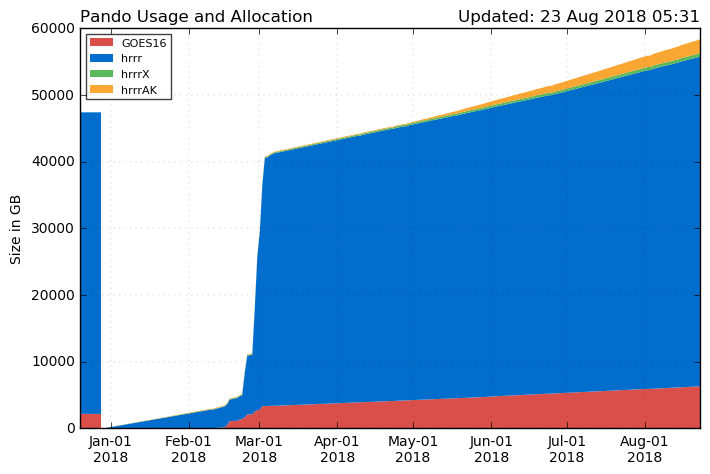
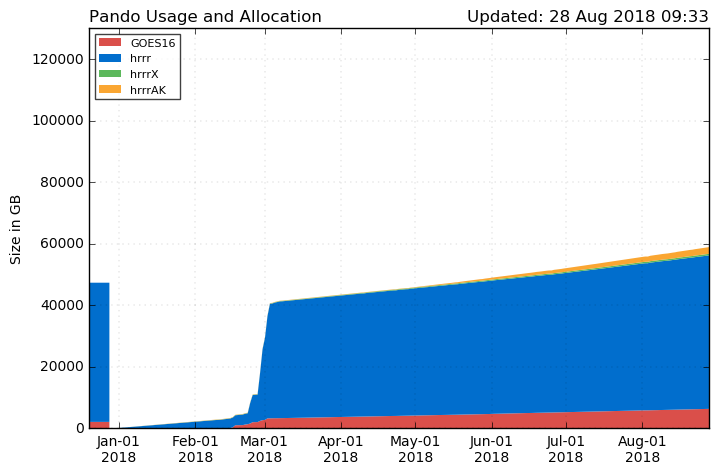
updates: remove files from disk to reduce storage, risk files on Pando

diff --git a/hrrr_fires.html b/hrrr_fires.html
@@ -62,7 +62,22 @@ This page is created dynamically in the scirpt /oper/HRRR_fires/manager.py
         </ul>
         -->
         </div>
-        </div></td><td>Utah</td> <td>10,250.0</td><td>2018-07-21 00:00:00</td></tr><tr><td>
+        </div></td><td>Utah</td> <td>12,246.0</td><td>2018-07-21 00:00:00</td></tr><tr><td>
+        <div class="btn-group" role="group" aria-label="..." style="padding-bottom:3px">
+        <a href="http://home.chpc.utah.edu/~u0553130/Brian_Blaylock/cgi-bin/photo_viewer_fire.cgi?FIRE=BRITANIA_MOUNTAIN" class="btn btn-warning" style="width:175px"><b><i class="fab fa-gripfire"></i> BRITANIA MOUNTAIN</b></a>  <div class="btn-group" role="group">
+        <!--
+        <a class="btn btn-warning dropdown-toggle" data-toggle="dropdown" aria-haspopup="true" aria-expanded="false">
+        <i class="far fa-clock"></i>
+        <span class="caret"></span>
+        </a>
+        <ul class="dropdown-menu">
+        <li>Other Data/Figures:</li>
+        <li><a href="http://home.chpc.utah.edu/~u0553130/PhD/HRRR_fires/BRITANIA_MOUNTAIN">More Plots</a></li>
+        <li><a href="http://home.chpc.utah.edu/~u0553130/Brian_Blaylock/cgi-bin/hrrr_fires_alert.cgi?fire=BRITANIA MOUNTAIN">Past Wind Events</a></li>
+        </ul>
+        -->
+        </div>
+        </div></td><td>Wyoming</td> <td>13,300.0</td><td>2018-08-26 00:00:00</td></tr><tr><td>
         <div class="btn-group" role="group" aria-label="..." style="padding-bottom:3px">
         <a href="http://home.chpc.utah.edu/~u0553130/Brian_Blaylock/cgi-bin/photo_viewer_fire.cgi?FIRE=BULL_DRAW" class="btn btn-warning" style="width:175px"><b><i class="fab fa-gripfire"></i> BULL DRAW</b></a>  <div class="btn-group" role="group">
         <!--
@@ -77,22 +92,7 @@ This page is created dynamically in the scirpt /oper/HRRR_fires/manager.py
         </ul>
         -->
         </div>
-        </div></td><td>Colorado</td> <td>30,180.0</td><td>2018-07-29 00:00:00</td></tr><tr><td>
-        <div class="btn-group" role="group" aria-label="..." style="padding-bottom:3px">
-        <a href="http://home.chpc.utah.edu/~u0553130/Brian_Blaylock/cgi-bin/photo_viewer_fire.cgi?FIRE=COLUMBUS" class="btn btn-warning" style="width:175px"><b><i class="fab fa-gripfire"></i> COLUMBUS</b></a>  <div class="btn-group" role="group">
-        <!--
-        <a class="btn btn-warning dropdown-toggle" data-toggle="dropdown" aria-haspopup="true" aria-expanded="false">
-        <i class="far fa-clock"></i>
-        <span class="caret"></span>
-        </a>
-        <ul class="dropdown-menu">
-        <li>Other Data/Figures:</li>
-        <li><a href="http://home.chpc.utah.edu/~u0553130/PhD/HRRR_fires/COLUMBUS">More Plots</a></li>
-        <li><a href="http://home.chpc.utah.edu/~u0553130/Brian_Blaylock/cgi-bin/hrrr_fires_alert.cgi?fire=COLUMBUS">Past Wind Events</a></li>
-        </ul>
-        -->
-        </div>
-        </div></td><td>Oregon</td> <td>10,518.0</td><td>2018-07-15 00:00:00</td></tr><tr><td>
+        </div></td><td>Colorado</td> <td>30,208.0</td><td>2018-07-29 00:00:00</td></tr><tr><td>
         <div class="btn-group" role="group" aria-label="..." style="padding-bottom:3px">
         <a href="http://home.chpc.utah.edu/~u0553130/Brian_Blaylock/cgi-bin/photo_viewer_fire.cgi?FIRE=COUGAR_CREEK" class="btn btn-warning" style="width:175px"><b><i class="fab fa-gripfire"></i> COUGAR CREEK</b></a>  <div class="btn-group" role="group">
         <!--
@@ -107,7 +107,7 @@ This page is created dynamically in the scirpt /oper/HRRR_fires/manager.py
         </ul>
         -->
         </div>
-        </div></td><td>Washington</td> <td>39,208.0</td><td>2018-07-28 00:00:00</td></tr><tr><td>
+        </div></td><td>Washington</td> <td>41,324.0</td><td>2018-07-28 00:00:00</td></tr><tr><td>
         <div class="btn-group" role="group" aria-label="..." style="padding-bottom:3px">
         <a href="http://home.chpc.utah.edu/~u0553130/Brian_Blaylock/cgi-bin/photo_viewer_fire.cgi?FIRE=CRESCENT_MOUNTAIN" class="btn btn-warning" style="width:175px"><b><i class="fab fa-gripfire"></i> CRESCENT MOUNTAIN</b></a>  <div class="btn-group" role="group">
         <!--
@@ -122,7 +122,37 @@ This page is created dynamically in the scirpt /oper/HRRR_fires/manager.py
         </ul>
         -->
         </div>
-        </div></td><td>Washington</td> <td>32,855.0</td><td>2018-07-29 00:00:00</td></tr><tr><td>
+        </div></td><td>Washington</td> <td>42,942.0</td><td>2018-07-29 00:00:00</td></tr><tr><td>
+        <div class="btn-group" role="group" aria-label="..." style="padding-bottom:3px">
+        <a href="http://home.chpc.utah.edu/~u0553130/Brian_Blaylock/cgi-bin/photo_viewer_fire.cgi?FIRE=GOLDSTONE" class="btn btn-warning" style="width:175px"><b><i class="fab fa-gripfire"></i> GOLDSTONE</b></a>  <div class="btn-group" role="group">
+        <!--
+        <a class="btn btn-warning dropdown-toggle" data-toggle="dropdown" aria-haspopup="true" aria-expanded="false">
+        <i class="far fa-clock"></i>
+        <span class="caret"></span>
+        </a>
+        <ul class="dropdown-menu">
+        <li>Other Data/Figures:</li>
+        <li><a href="http://home.chpc.utah.edu/~u0553130/PhD/HRRR_fires/GOLDSTONE">More Plots</a></li>
+        <li><a href="http://home.chpc.utah.edu/~u0553130/Brian_Blaylock/cgi-bin/hrrr_fires_alert.cgi?fire=GOLDSTONE">Past Wind Events</a></li>
+        </ul>
+        -->
+        </div>
+        </div></td><td>Montana</td> <td>9,337.0</td><td>2018-08-02 00:00:00</td></tr><tr><td>
+        <div class="btn-group" role="group" aria-label="..." style="padding-bottom:3px">
+        <a href="http://home.chpc.utah.edu/~u0553130/Brian_Blaylock/cgi-bin/photo_viewer_fire.cgi?FIRE=GOSHUTE_CAVE" class="btn btn-warning" style="width:175px"><b><i class="fab fa-gripfire"></i> GOSHUTE CAVE</b></a>  <div class="btn-group" role="group">
+        <!--
+        <a class="btn btn-warning dropdown-toggle" data-toggle="dropdown" aria-haspopup="true" aria-expanded="false">
+        <i class="far fa-clock"></i>
+        <span class="caret"></span>
+        </a>
+        <ul class="dropdown-menu">
+        <li>Other Data/Figures:</li>
+        <li><a href="http://home.chpc.utah.edu/~u0553130/PhD/HRRR_fires/GOSHUTE_CAVE">More Plots</a></li>
+        <li><a href="http://home.chpc.utah.edu/~u0553130/Brian_Blaylock/cgi-bin/hrrr_fires_alert.cgi?fire=GOSHUTE CAVE">Past Wind Events</a></li>
+        </ul>
+        -->
+        </div>
+        </div></td><td>Nevada</td> <td>17,000.0</td><td>2018-08-13 00:00:00</td></tr><tr><td>
         <div class="btn-group" role="group" aria-label="..." style="padding-bottom:3px">
         <a href="http://home.chpc.utah.edu/~u0553130/Brian_Blaylock/cgi-bin/photo_viewer_fire.cgi?FIRE=HIRZ" class="btn btn-warning" style="width:175px"><b><i class="fab fa-gripfire"></i> HIRZ</b></a>  <div class="btn-group" role="group">
         <!--
@@ -137,7 +167,7 @@ This page is created dynamically in the scirpt /oper/HRRR_fires/manager.py
         </ul>
         -->
         </div>
-        </div></td><td>California</td> <td>19,100.0</td><td>2018-08-09 00:00:00</td></tr><tr><td>
+        </div></td><td>California</td> <td>30,606.0</td><td>2018-08-09 00:00:00</td></tr><tr><td>
         <div class="btn-group" role="group" aria-label="..." style="padding-bottom:3px">
         <a href="http://home.chpc.utah.edu/~u0553130/Brian_Blaylock/cgi-bin/photo_viewer_fire.cgi?FIRE=HOWE_RIDGE" class="btn btn-warning" style="width:175px"><b><i class="fab fa-gripfire"></i> HOWE RIDGE</b></a>  <div class="btn-group" role="group">
         <!--
@@ -152,7 +182,7 @@ This page is created dynamically in the scirpt /oper/HRRR_fires/manager.py
         </ul>
         -->
         </div>
-        </div></td><td>Montana</td> <td>10,323.0</td><td>2018-08-11 00:00:00</td></tr><tr><td>
+        </div></td><td>Montana</td> <td>12,420.0</td><td>2018-08-11 00:00:00</td></tr><tr><td>
         <div class="btn-group" role="group" aria-label="..." style="padding-bottom:3px">
         <a href="http://home.chpc.utah.edu/~u0553130/Brian_Blaylock/cgi-bin/photo_viewer_fire.cgi?FIRE=KLONDIKE" class="btn btn-warning" style="width:175px"><b><i class="fab fa-gripfire"></i> KLONDIKE</b></a>  <div class="btn-group" role="group">
         <!--
@@ -167,7 +197,7 @@ This page is created dynamically in the scirpt /oper/HRRR_fires/manager.py
         </ul>
         -->
         </div>
-        </div></td><td>Oregon</td> <td>79,501.0</td><td>2018-07-15 00:00:00</td></tr><tr><td>
+        </div></td><td>Oregon</td> <td>93,538.0</td><td>2018-07-15 00:00:00</td></tr><tr><td>
         <div class="btn-group" role="group" aria-label="..." style="padding-bottom:3px">
         <a href="http://home.chpc.utah.edu/~u0553130/Brian_Blaylock/cgi-bin/photo_viewer_fire.cgi?FIRE=MCLEOD" class="btn btn-warning" style="width:175px"><b><i class="fab fa-gripfire"></i> MCLEOD</b></a>  <div class="btn-group" role="group">
         <!--
@@ -182,22 +212,7 @@ This page is created dynamically in the scirpt /oper/HRRR_fires/manager.py
         </ul>
         -->
         </div>
-        </div></td><td>Washington</td> <td>17,372.0</td><td>2018-08-11 00:00:00</td></tr><tr><td>
-        <div class="btn-group" role="group" aria-label="..." style="padding-bottom:3px">
-        <a href="http://home.chpc.utah.edu/~u0553130/Brian_Blaylock/cgi-bin/photo_viewer_fire.cgi?FIRE=MILES" class="btn btn-warning" style="width:175px"><b><i class="fab fa-gripfire"></i> MILES</b></a>  <div class="btn-group" role="group">
-        <!--
-        <a class="btn btn-warning dropdown-toggle" data-toggle="dropdown" aria-haspopup="true" aria-expanded="false">
-        <i class="far fa-clock"></i>
-        <span class="caret"></span>
-        </a>
-        <ul class="dropdown-menu">
-        <li>Other Data/Figures:</li>
-        <li><a href="http://home.chpc.utah.edu/~u0553130/PhD/HRRR_fires/MILES">More Plots</a></li>
-        <li><a href="http://home.chpc.utah.edu/~u0553130/Brian_Blaylock/cgi-bin/hrrr_fires_alert.cgi?fire=MILES">Past Wind Events</a></li>
-        </ul>
-        -->
-        </div>
-        </div></td><td>Oregon</td> <td>35,455.0</td><td>2018-07-16 00:00:00</td></tr><tr><td>
+        </div></td><td>Washington</td> <td>21,659.0</td><td>2018-08-11 00:00:00</td></tr><tr><td>
         <div class="btn-group" role="group" aria-label="..." style="padding-bottom:3px">
         <a href="http://home.chpc.utah.edu/~u0553130/Brian_Blaylock/cgi-bin/photo_viewer_fire.cgi?FIRE=RABBIT_FOOT_" class="btn btn-warning" style="width:175px"><b><i class="fab fa-gripfire"></i> RABBIT FOOT </b></a>  <div class="btn-group" role="group">
         <!--
@@ -212,7 +227,22 @@ This page is created dynamically in the scirpt /oper/HRRR_fires/manager.py
         </ul>
         -->
         </div>
-        </div></td><td>Idaho</td> <td>34,518.0</td><td>2018-08-02 00:00:00</td></tr><tr><td>
+        </div></td><td>Idaho</td> <td>35,271.0</td><td>2018-08-02 00:00:00</td></tr><tr><td>
+        <div class="btn-group" role="group" aria-label="..." style="padding-bottom:3px">
+        <a href="http://home.chpc.utah.edu/~u0553130/Brian_Blaylock/cgi-bin/photo_viewer_fire.cgi?FIRE=RATTLESNAKE_CREEK" class="btn btn-warning" style="width:175px"><b><i class="fab fa-gripfire"></i> RATTLESNAKE CREEK</b></a>  <div class="btn-group" role="group">
+        <!--
+        <a class="btn btn-warning dropdown-toggle" data-toggle="dropdown" aria-haspopup="true" aria-expanded="false">
+        <i class="far fa-clock"></i>
+        <span class="caret"></span>
+        </a>
+        <ul class="dropdown-menu">
+        <li>Other Data/Figures:</li>
+        <li><a href="http://home.chpc.utah.edu/~u0553130/PhD/HRRR_fires/RATTLESNAKE_CREEK">More Plots</a></li>
+        <li><a href="http://home.chpc.utah.edu/~u0553130/Brian_Blaylock/cgi-bin/hrrr_fires_alert.cgi?fire=RATTLESNAKE CREEK">Past Wind Events</a></li>
+        </ul>
+        -->
+        </div>
+        </div></td><td>Idaho</td> <td>8,193.0</td><td>2018-07-23 00:00:00</td></tr><tr><td>
         <div class="btn-group" role="group" aria-label="..." style="padding-bottom:3px">
         <a href="http://home.chpc.utah.edu/~u0553130/Brian_Blaylock/cgi-bin/photo_viewer_fire.cgi?FIRE=SOUTH_SUGARLOAF" class="btn btn-warning" style="width:175px"><b><i class="fab fa-gripfire"></i> SOUTH SUGARLOAF</b></a>  <div class="btn-group" role="group">
         <!--
@@ -227,37 +257,7 @@ This page is created dynamically in the scirpt /oper/HRRR_fires/manager.py
         </ul>
         -->
         </div>
-        </div></td><td>Nevada</td> <td>81,125.0</td><td>2018-08-17 00:00:00</td></tr><tr><td>
-        <div class="btn-group" role="group" aria-label="..." style="padding-bottom:3px">
-        <a href="http://home.chpc.utah.edu/~u0553130/Brian_Blaylock/cgi-bin/photo_viewer_fire.cgi?FIRE=STONE" class="btn btn-warning" style="width:175px"><b><i class="fab fa-gripfire"></i> STONE</b></a>  <div class="btn-group" role="group">
-        <!--
-        <a class="btn btn-warning dropdown-toggle" data-toggle="dropdown" aria-haspopup="true" aria-expanded="false">
-        <i class="far fa-clock"></i>
-        <span class="caret"></span>
-        </a>
-        <ul class="dropdown-menu">
-        <li>Other Data/Figures:</li>
-        <li><a href="http://home.chpc.utah.edu/~u0553130/PhD/HRRR_fires/STONE">More Plots</a></li>
-        <li><a href="http://home.chpc.utah.edu/~u0553130/Brian_Blaylock/cgi-bin/hrrr_fires_alert.cgi?fire=STONE">Past Wind Events</a></li>
-        </ul>
-        -->
-        </div>
-        </div></td><td>California</td> <td>30,570.0</td><td>2018-08-15 00:00:00</td></tr><tr><td>
-        <div class="btn-group" role="group" aria-label="..." style="padding-bottom:3px">
-        <a href="http://home.chpc.utah.edu/~u0553130/Brian_Blaylock/cgi-bin/photo_viewer_fire.cgi?FIRE=WATSON_CREEK" class="btn btn-warning" style="width:175px"><b><i class="fab fa-gripfire"></i> WATSON CREEK</b></a>  <div class="btn-group" role="group">
-        <!--
-        <a class="btn btn-warning dropdown-toggle" data-toggle="dropdown" aria-haspopup="true" aria-expanded="false">
-        <i class="far fa-clock"></i>
-        <span class="caret"></span>
-        </a>
-        <ul class="dropdown-menu">
-        <li>Other Data/Figures:</li>
-        <li><a href="http://home.chpc.utah.edu/~u0553130/PhD/HRRR_fires/WATSON_CREEK">More Plots</a></li>
-        <li><a href="http://home.chpc.utah.edu/~u0553130/Brian_Blaylock/cgi-bin/hrrr_fires_alert.cgi?fire=WATSON CREEK">Past Wind Events</a></li>
-        </ul>
-        -->
-        </div>
-        </div></td><td>Oregon</td> <td>35,287.0</td><td>2018-08-15 00:00:00</td></tr>
+        </div></td><td>Nevada</td> <td>232,859.0</td><td>2018-08-17 00:00:00</td></tr>
 </table>
 </div>
   <div class="col-md-6">
@@ -275,7 +275,7 @@ This page is created dynamically in the scirpt /oper/HRRR_fires/manager.py
     <p><a class='btn btn-default' style='width:100%' href="https://rmgsc.cr.usgs.gov/outgoing/GeoMAC/ActiveFirePerimeters.kml" target="_blank">Active Fire KMZ USGS <i class="fa fa-external-link-alt"></i></a>
     <p><a class='btn btn-default' style='width:100%' href="https://earthdata.nasa.gov/earth-observation-data/near-real-time/firms/active-fire-data" target="_blank">Active Fire KMZ EarthData <i class="fa fa-external-link-alt"></i></a>
     <p><a class='btn btn-success' style='width:100%' href="https://rmgsc.cr.usgs.gov/outgoing/GeoMAC/current_year_fire_data/current_year_all_states/" target="_blank">Active Fire Perimeter ShapeFile <i class="fa fa-external-link-alt"></i></a>
-    <p><a class='btn btn-success' style='width:100%' href="https://fsapps.nwcg.gov/afm/data/lg_fire/lg_fire_info_2018-08-23.txt" target="_blank">Active Fire Text <i class="fa fa-external-link-alt"></i></a>
+    <p><a class='btn btn-success' style='width:100%' href="https://fsapps.nwcg.gov/afm/data/lg_fire/lg_fire_info_2018-08-28.txt" target="_blank">Active Fire Text <i class="fa fa-external-link-alt"></i></a>
     </div>
 </center>
 </div>

diff --git a/Pando_archive/index.html b/Pando_archive/index.html
@@ -37,18 +37,18 @@
         </div>
   <br>
   <script src='./js/pando_status.js'></script>
-    <center><font size=12> 58.5 TB out of 60 TB</font>
+    <center><font size=12> 59.1 TB out of 130 TB</font>
     <div class="progress" style="max-width:700px;height:35px">
-            <div class="progress-bar progress-bar-danger" role="progressbar" style="width:11%">
+            <div class="progress-bar progress-bar-danger" role="progressbar" style="width:5%">
               <font size=4></font>
             </div>
-            <div class="progress-bar progress-bar-primary" role="progressbar" style="width:82%">
+            <div class="progress-bar progress-bar-primary" role="progressbar" style="width:38%">
               <font size=4></font>
             </div>
-            <div class="progress-bar progress-bar-success" role="progressbar" style="width:1%">
+            <div class="progress-bar progress-bar-success" role="progressbar" style="width:0%">
               <font size=4></font>
             </div>
-            <div class="progress-bar progress-bar-warning" role="progressbar" style="width:3%">
+            <div class="progress-bar progress-bar-warning" role="progressbar" style="width:2%">
               <font size=4></font>
             </div>
           </div>
@@ -64,9 +64,9 @@
         <th style='text-align:center'>Estimated Full Date</th>
       </tr>
       <tr>
-        <td>118.19 GB</td>
-        <td>13</td>
-        <td>05 September 2018</td>
+        <td>130.95 GB</td>
+        <td>541</td>
+        <td>20 February 2020</td>
       </tr>
     </table>
     <table class="table table-bordered" style='text-align:center;max-width:700px'>
@@ -80,30 +80,30 @@
       <tr>
         <th>sfc</th>
         <td>--</td>
-        <td>22.65</td>
-        <td>1.02</td>
-        <td>7.48</td>
+        <td>28.27</td>
+        <td>0.47</td>
+        <td>9.09</td>
       </tr>
       <tr>
         <th>prs</th>
         <td>--</td>
-        <td>3.15</td>
+        <td>4.24</td>
         <td>0.00</td>
         <td>0.00</td>
       </tr>
       <tr>
         <th>nat</th>
         <td>--</td>
-        <td>4.95</td>
+        <td>6.79</td>
         <td>0.00</td>
         <td>0.00</td>
       </tr>
       <tr>
         <th>Total</th>
-        <th>18.4 GB</th>
-        <th>30.75 GB</th>
-        <th>1.02 GB</th>
-        <th>7.48 GB</th>
+        <th>21.8 GB</th>
+        <th>39.30 GB</th>
+        <th>0.47 GB</th>
+        <th>9.09 GB</th>
       </tr>
     </table>
 

diff --git a/home.html b/home.html
@@ -168,7 +168,7 @@ in November 2012.
               </div>
               <div class="media-body">
                 <b>Microsoft</b><br>
-                <h4>Windows, Office 365</h4>
+                <h4>Windows, Office 365, VSCode</h4>
               </div>
           </div>
           <div class="media">
@@ -177,7 +177,7 @@ in November 2012.
               </div>
               <div class="media-body">
                 <b>Communication</b><br>
-                <h4>Speaking, writing, teaching, documentation, Slack</h4>
+                <h4>Speaking, writing, teaching, documentation, Slack, types 80+ words per minute</h4>
               </div>
           </div>
         </div>

diff --git a/Pando_archive/daily_usage.py b/Pando_archive/daily_usage.py
@@ -41,7 +41,7 @@ mpl.rcParams['savefig.dpi'] = 100
 
 #------------------------------------------------------------------------------
 # Allocation (in GB)
-allocation = 60 * 1e3
+allocation = (60+70) * 1e3
 
 # Today's Date
 DATE = datetime.utcnow()
@@ -174,7 +174,7 @@ html = '''
         </div>
   <br>
   <script src='./js/pando_status.js'></script>
-    <center><font size=12> %.1f TB out of 60 TB</font>
+    <center><font size=12> %.1f TB out of 130 TB</font>
     <div class="progress" style="max-width:700px;height:35px">
             <div class="progress-bar progress-bar-danger" role="progressbar" style="width:%.f%%">
               <font size=4></font>
